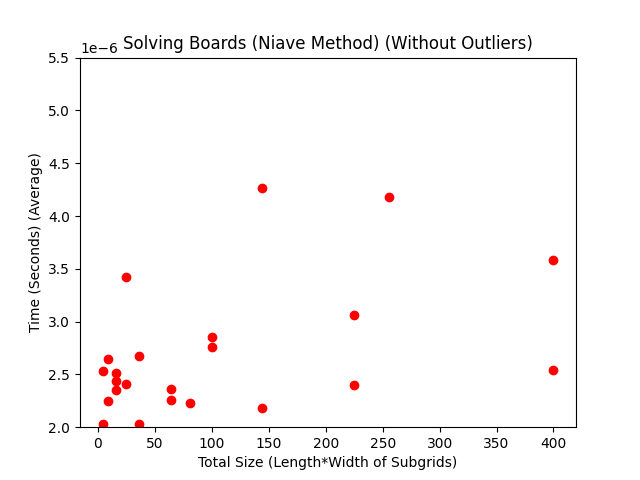
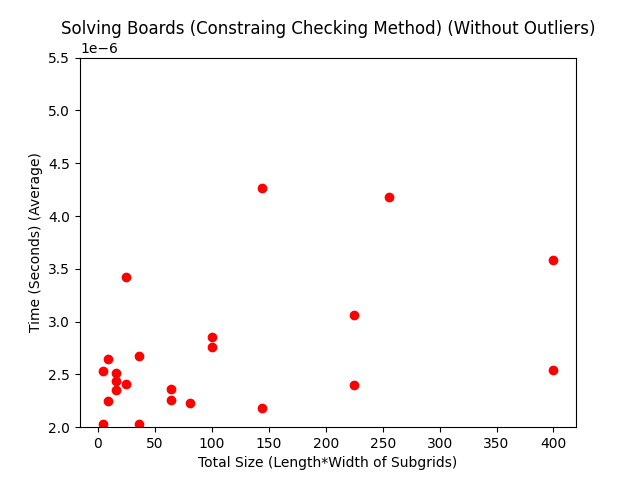
Demo

Changed region(s): [[0.0938, 0.0312, 0.9375, 0.125]]

diff --git a/MKNguye2_4101/Sudoku Solver/Demo/Phase1_Ver1.5.py b/MKNguye2_4101/Sudoku Solver/Demo/Phase1_Ver1.5.py
@@ -1,0 +1,126 @@
+'''
+Version 1.5
+
+Attempts to put the problem into polynomial time by swapping around the rows and columns of an already valid board
+While it does work, issues arise in the realm of variance as there's a set pattern for each board generated
+    This can be remedied by having multiple base boards to generate off of, but there still exists a relatively finite set of these patterns
+    Regular sudoku also has a finite set of patterns, but compared to the finite sets of this method, it's infinite
+    
+Also the first instance of the boardToString method actually fucking working properly
+'''
+
+import sys, math, random, time, os
+
+def boardToString(board, length, width):
+    maxDigits = int(math.log(length*width, 10)) + 1
+    horizontalLine = "-"*((maxDigits+1) * length * width) + "-"*((width)*(maxDigits)) + "-"*(width+1)
+    totalLength = length*width
+    output = horizontalLine + "\n"
+    
+    for i in range(0, totalLength):
+        output += "|"
+        
+        for j in range(0, totalLength):
+            if board[i][j] == 0:
+                numDigits = 1
+            else:
+                numDigits = int(math.log(board[i][j], 10)) + 1
+            output += " "*(maxDigits - numDigits + 1) + str(board[i][j])
+            
+            if (j+1) % length == 0:
+                output += " "*(maxDigits) + "|"
+                
+        if (i+1) % width == 0:
+            output += "\n" + horizontalLine
+            
+        output += "\n"
+    
+    return output
+
+
+def boardToTxtFormat(board, length, width):
+    output = ""
+    maxDigits = int(math.log(length*width, 10)) + 1
+
+    for row in board:
+        for col in row:
+            numDigits = int(math.log(col, 10)) + 1
+            output += (" " * (maxDigits-numDigits + 1)) + str(col)
+        output += "\n"
+    
+    return output
+
+
+def boardCloning(board):
+    boardCopy = board[:]
+    return boardCopy
+
+
+def makeBaseBoard(innerLength, innerWidth, outerLength, outerWidth):
+    area = innerLength * innerWidth
+
+    baseBoard = [[0 for a in range(innerLength)] for b in range(innerWidth)]
+
+    i = 1
+    for r in range(innerWidth):
+        for c in range(innerLength):
+            baseBoard[r][c] = i
+            i += 1
+
+    actualBoard = [[0 for a in range(area)] for b in range(area)]
+
+    baseRow = 0
+    baseCol = 0
+    for outerRow in range(outerWidth):
+        for outerCol in range(outerLength):
+            for innerRow in range(innerWidth):
+                for innerCol in range(innerLength):
+                    baseCol = (innerCol+outerRow)%innerLength
+                    baseRow = (innerRow+outerCol)%innerWidth
+                    actualBoard[ (outerRow*innerWidth)+innerRow ][ (outerCol*innerLength)+innerCol ] = baseBoard[baseRow][baseCol]
+
+    return actualBoard
+
+def randomizeBoard(board, innerLength, innerWidth, outerLength, outerWidth):
+    randomizeInnerCol(board, innerLength, innerWidth, outerLength, outerWidth)
+    randomizeInnerRow(board, innerLength, innerWidth, outerLength, outerWidth)
+
+def randomizeInnerCol(board, innerLength, innerWidth, outerLength, outerWidth):
+    for outerCol in range(outerLength):
+        offset = outerCol*innerLength
+
+        colList = [[0 for i in range(innerWidth*outerWidth)] for i in range(innerLength)]
+        
+        for innerCol in range(innerLength):
+            for wholeCol in range(innerLength*innerWidth):
+                colList[innerCol][wholeCol] = board[wholeCol][offset + innerCol]
+            
+        random.shuffle(colList)
+            
+        for innerCol in range(innerLength):
+            for wholeCol in range(innerLength * innerWidth):
+                board[wholeCol][offset + innerCol] = colList[innerCol][wholeCol]
+    
+def randomizeInnerRow(board, innerLength, innerWidth, outerLength, outerWidth):
+    for outerRow in range(outerWidth):
+        offset = outerRow*innerWidth
+        rowList = []
+        
+        for innerRow in range(innerWidth):
+            rowList.append(board[offset+innerRow])
+            
+        random.shuffle(rowList)
+            
+        for innerRow in range(innerWidth):
+            board[offset + innerRow] = rowList[innerRow]
+
+
+
+
+board = makeBaseBoard(3, 4, 4, 3)
+print("Base Board:")
+print(boardToString(board, 3, 4) + "\n")
+
+randomizeBoard(board, 3, 4, 4, 3)
+print("New Board:")
+print(boardToString(board, 3, 4))

diff --git a/MKNguye2_4101/Sudoku Solver/Demo/SudokuNumberRemover_Naive.py b/MKNguye2_4101/Sudoku Solver/Demo/SudokuNumberRemover_Naive.py
@@ -1,0 +1,152 @@
+import random
+import copy
+import os, time, math
+
+def printing(arr):
+    for i in range(len(arr)):
+        for j in range(len(arr[i])):
+            print(arr[i][j], end=" ")
+        print()
+
+#checks if number doesnt exist already within row/col
+def isSafe(grid, row, col, num):
+    # Check if 'num' is not in the current row
+    for x in range(len(grid[0])):
+        if grid[row][x] == num:
+            return False
+
+    # Check if 'num' is not in the current column
+    for x in range(len(grid)):
+        if grid[x][col] == num:
+            return False
+        
+    return True
+
+def solveSudoku(grid, row, col, numSolution):
+    
+    #if currently on last cell, board is a valid solution
+    if row == len(grid) - 1 and col == len(grid[0]):
+        numSolution += 1
+        return numSolution
+
+    #if at end of row, enter next row
+    if col == len(grid[0]):
+        row += 1
+        col = 0
+
+    #if number already exists in current cell, go to the next cell
+    if grid[row][col] > 0:
+        return solveSudoku(grid, row, col + 1, numSolution)
+
+    #iterates through possible numbers to the cell
+    for num in range(1, max(len(grid), len(grid[0])) + 1, 1):
+        #if number can be placed, set cell to current number 
+        if isSafe(grid, row, col, num):
+            grid[row][col] = num
+
+            #continue to next cell 
+            numSolution = solveSudoku(grid, row, col + 1, numSolution)
+
+            #if a board has more than 1 solution, return
+            if numSolution > 1:
+                return numSolution
+
+            #if placed num is an invalid solution, remove num and go to next possible number
+            grid[row][col] = 0
+
+    return numSolution
+
+
+
+# The following functions are made by Kristopher Nguyen
+def importBoard(filePath):
+    file = open(filePath, "r")
+    board = []
+    fileElements = file.readlines()
+    
+    boardIndex = 0
+    for item in fileElements:
+        board.append([])
+        
+        item = item[1:len(item)-1]
+        itemList = item.split()
+        
+        board[boardIndex] = [int(n) for n in itemList]
+        boardIndex += 1
+        
+    return board
+
+def boardToTxtFormat(board, length, width):
+    output = ""
+    maxDigits = int(math.log(length*width, 10)) + 1
+
+    for row in board:
+        for col in row:
+            if col == 0:
+                numDigits = 1
+            else:
+                numDigits = int(math.log(col, 10)) + 1
+            output += (" " * (maxDigits-numDigits + 1)) + str(col)
+        output += "\n"
+    
+    return output
+
+def boardToString(board, length, width):
+    maxDigits = int(math.log(length*width, 10)) + 1
+    horizontalLine = "-"*((maxDigits+1) * length * width) + "-"*((width)*(maxDigits)) + "-"*(width+1)
+    totalLength = length*width
+    output = horizontalLine + "\n"
+    
+    for i in range(0, totalLength):
+        output += "|"
+        
+        for j in range(0, totalLength):
+            if board[i][j] == 0:
+                numDigits = 1
+            else:
+                numDigits = int(math.log(board[i][j], 10)) + 1
+            output += " "*(maxDigits - numDigits + 1) + str(board[i][j])
+            
+            if (j+1) % length == 0:
+                output += " "*(maxDigits) + "|"
+                
+        if (i+1) % width == 0:
+            output += "\n" + horizontalLine
+            
+        output += "\n"
+    
+    return output
+
+
+
+
+
+
+
+grid = importBoard("./Demo/DemoBoardSolution.txt")
+count = 0
+print("Initial Grid:")
+print(boardToString(grid, 3, 4))
+
+while(count < 2):
+    rRow = random.randint(0, len(grid[0])-1)
+    rCol = random.randint(0, len(grid)-1)
+    if grid[rRow][rCol] != 0:
+        oldGrid = copy.deepcopy(grid)
+        grid[rRow][rCol] = 0
+
+        time.sleep(0.03)
+        os.system("cls")
+        print("New Grid w/ Removed Num")
+        print(boardToString(grid, 3, 4))
+
+        count = solveSudoku(grid, 0, 0, 0)
+        if (count==2):
+            grid = oldGrid
+
+print("Uniquely Solveable Grid:")
+print(boardToString(grid, 3, 4))
+
+file = open("./Demo/DemoBoardRemoved.txt", "w")
+file.write(boardToTxtFormat(grid, 3, 4))
+file.close()

diff --git a/MKNguye2_4101/Sudoku Solver/Demo/Phase1_Ver1.2P.py b/MKNguye2_4101/Sudoku Solver/Demo/Phase1_Ver1.2P.py
@@ -3,7 +3,7 @@ Version 1.2 (Print)
 
 The exact same as 1.2 but it prints out the board as it fills in. Obviously, this slows the program down, but it's good for demos
 Because of the volitile nature of the backtracking algorithm, the 3rd input is a seed that can be used to gaurantee a result
-    So far, "3 4 1" is a good choice because it only takes around 30 sec for the demo to complete
+    So far, "3 4 2" is a good choice because it only takes around 30 sec for the demo to complete
 '''
 
 import sys, math, random, time, os
@@ -34,6 +34,23 @@ def printBoard(board, length, width):
         output += "\n"
     
     return output
+
+def boardToTxtFormat(board, length, width):
+    output = ""
+    maxDigits = int(math.log(length*width, 10)) + 1
+
+    for row in board:
+        for col in row:
+            if col == 0:
+                numDigits = 1
+            else:
+                numDigits = int(math.log(col, 10)) + 1
+            output += (" " * (maxDigits-numDigits + 1)) + str(col)
+        output += "\n"
+    
+    return output
+
+
 
 def makeBoard(board, length, width, seed):
     iter = 0
@@ -85,6 +102,7 @@ def makeBoard(board, length, width, seed):
             display += "(x,y): (" + str(j) + "," + str(i) + ")\n"
             display += "Board: \n"
             display += printBoard(board, length, width) + "\n"
+            time.sleep(0.03)
             os.system("cls")
             print(display)
             
@@ -124,10 +142,10 @@ def checkCell(board, length, width, y, x, input):
 
     
 
-length = int(sys.argv[1])
-width = int(sys.argv[2])
+length = 3
+width = 4
 area = length*width
-seed = int(sys.argv[3])
+seed = 2
 
 board = [[0 for i in range(area)] for i in range(area)]
 seedList = [(a+1) for a in range(9999)]
@@ -140,5 +158,7 @@ makeBoard(board, length, width, seedList)
 toc = time.perf_counter()
 print("Ran for " + str((toc - tic)) + " seconds")
 
-
+file = open("./Demo/DemoBoardSolution.txt", "w")
+file.write(boardToTxtFormat(board, length, width))
+file.close()
 #makeBoard(board)

diff --git a/MKNguye2_4101/Sudoku Solver/Phase_4/Plots.py b/MKNguye2_4101/Sudoku Solver/Phase_4/Plots.py
@@ -6,7 +6,7 @@ import statistics
 plt.xlabel('Total Size (Length*Width of Subgrids)')
 plt.ylabel('Time (Seconds) (Average)')
 #plt.ylim(.000002, .0000055)
-plt.title('Solving Boards (Constraint Checking Method) (With Outliers)')
+plt.title('Solving Boards (Backtracking Method) (With Outliers)')
 
 
 x = []
@@ -27,7 +27,7 @@ while length < 6:
         if length == 5 & width == 5:
             break
 
-        dirName = "./Phase_3/solvedBoardsTimes_CC/" + str(length) + "x" + str(width) + "Boards/TimeFile.txt"
+        dirName = "./Phase_3/solvedBoardsTimes/" + str(length) + "x" + str(width) + "Boards/TimeFile.txt"
         size = length*width*length*width 
         
         timeFile = open(dirName, "r")

diff --git a/MKNguye2_4101/Sudoku Solver/Phase_4/PlotsStdDev.py b/MKNguye2_4101/Sudoku Solver/Phase_4/PlotsStdDev.py
@@ -6,7 +6,7 @@ import statistics
 plt.xlabel('Total Size (Length*Width of Subgrids)')
 plt.ylabel('Time (Seconds) (Average)')
 plt.ylim(.000002, .0000055)
-plt.title('Solving Boards (Niave Method) (Without Outliers)')
+plt.title('Solving Boards (Constraing Checking Method) (Without Outliers)')
 
 
 x = []
